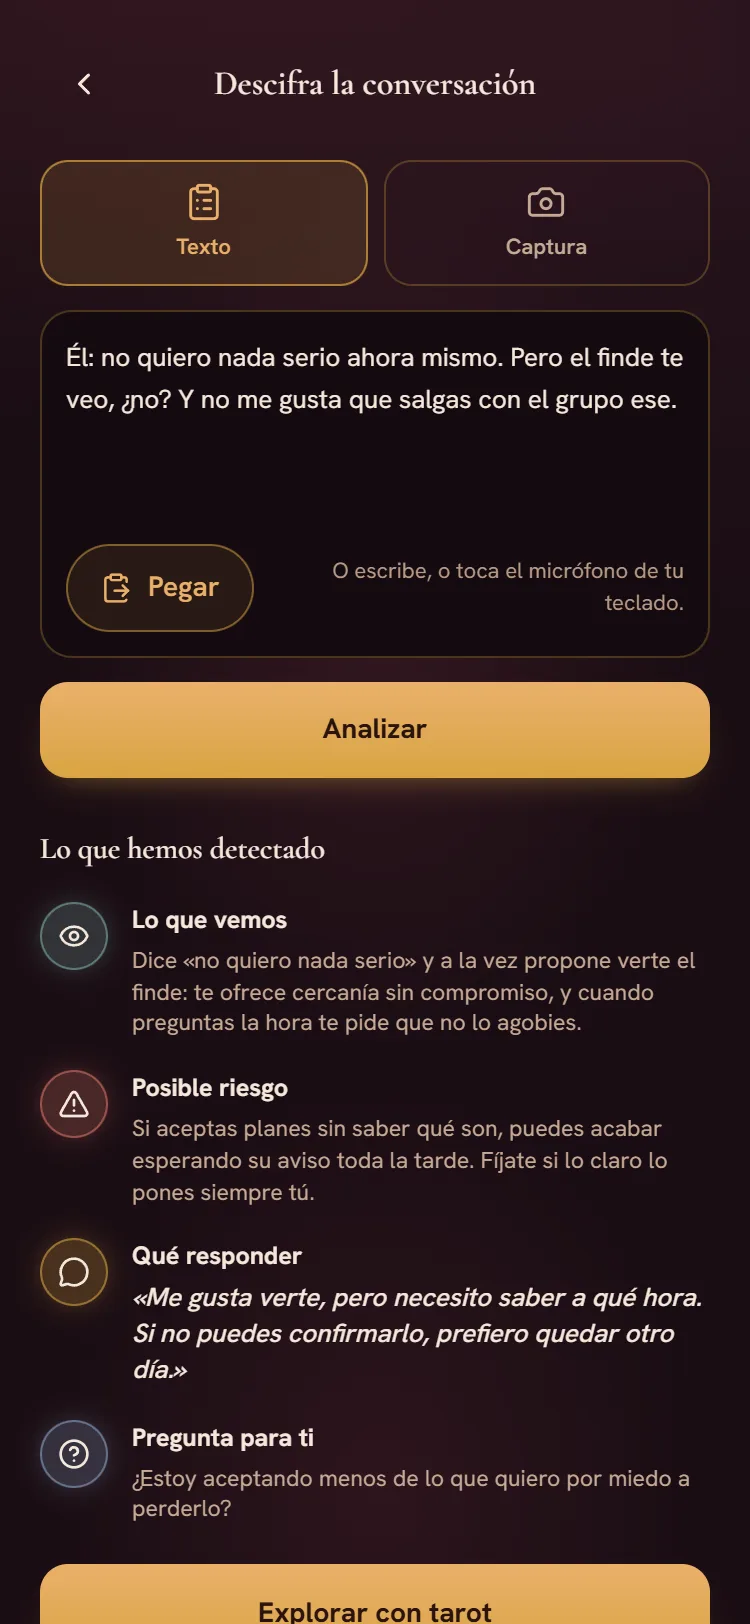
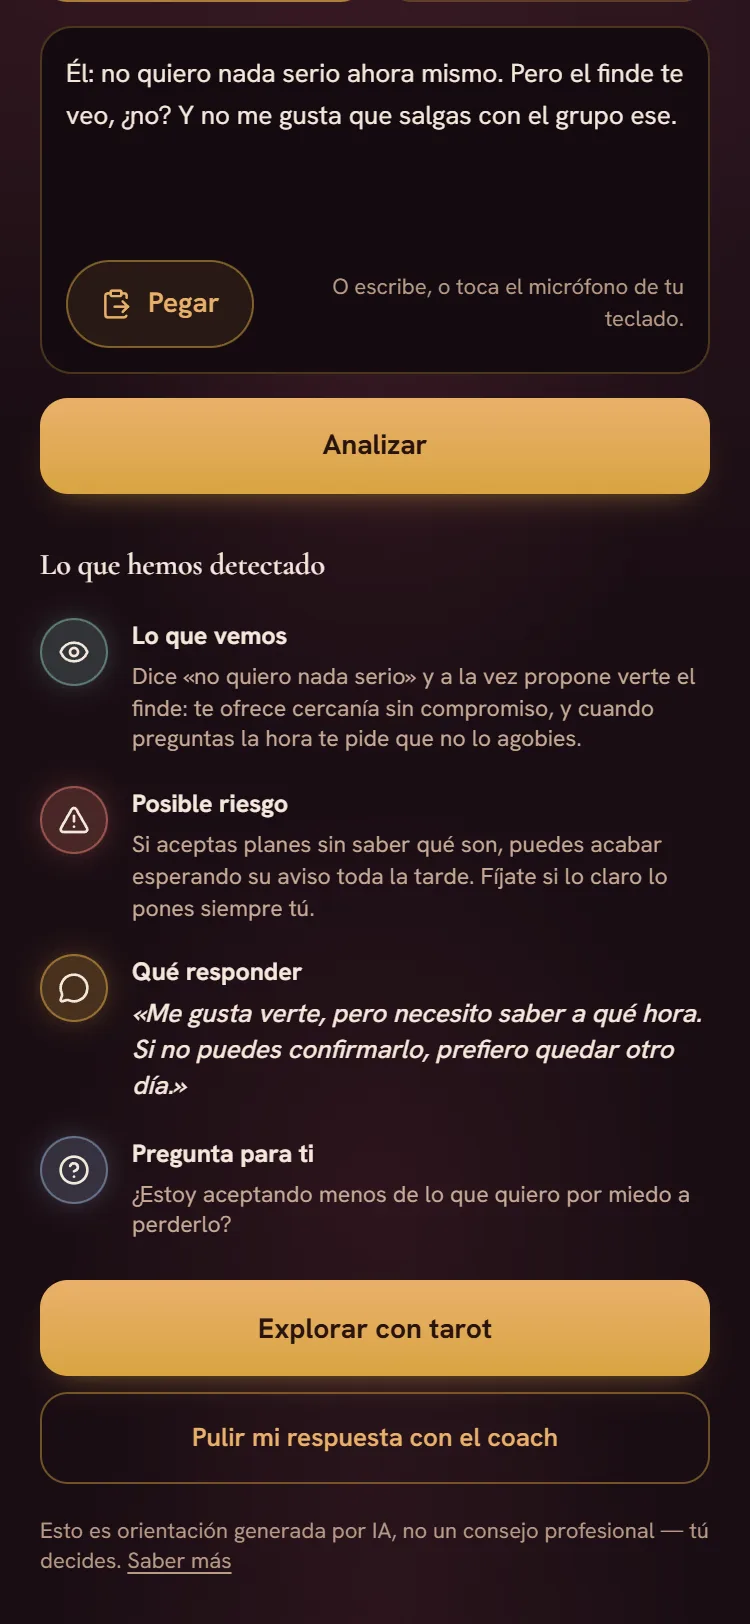
fix(landing): la captura de Descifrar del carrusel ya no corta el botón de abajo

diff --git a/scripts/capturas-carrusel/escenas.js b/scripts/capturas-carrusel/escenas.js
@@ -66,10 +66,13 @@ const ESCENAS = {
     await page.waitForTimeout(500);
     await page.getByRole('button', { name: 'Analizar', exact: true }).click();
     await page.waitForTimeout(1500);
+    // Baja hasta el final del área desplazable para que los dos botones de abajo se vean ENTEROS (nunca cortados).
     await page.evaluate(() => {
       const h = [...document.querySelectorAll('p')].find((x) => /Lo que hemos detectado/.test(x.textContent || ''));
-      if (h) h.scrollIntoView({ block: 'start', behavior: 'instant' });
-      window.scrollBy(0, -170);
+      let el = h;
+      while (el && el !== document.body && !(el.scrollHeight > el.clientHeight + 5 && /(auto|scroll)/.test(getComputedStyle(el).overflowY))) el = el.parentElement;
+      if (el && el !== document.body) el.scrollTop = el.scrollHeight;
+      else window.scrollTo({ top: document.documentElement.scrollHeight, behavior: 'instant' });
     });
     await page.waitForTimeout(500);
   },

diff --git a/app/page.tsx b/app/page.tsx
@@ -154,7 +154,7 @@ export default function LandingLuma() {
             label: 'Tu día, en un vistazo',
           },
           {
-            src: '/carrusel/descifrar.webp?v=3',
+            src: '/carrusel/descifrar.webp?v=4',
             label: 'Hechos, riesgo y qué responder',
           },
           {

diff --git a/ESTADO.md b/ESTADO.md
@@ -1134,3 +1134,4 @@ sabemos / qué observamos / posible riesgo / pregunta para ti / qué podrías re
 - 🔄 2026-10-19 — Carrusel: añadida la pantalla principal de Tarot («Eliges tu tirada») antes de la lectura (ahora 7 pantallas). Pedido de la dueña: el frame de Tarot solo enseñaba la lectura («Amor») y no la pantalla principal. Sin publicar.
 - 🔄 2026-10-19 — COMPATIBILIDAD (sin publicar): (1) BUG REAL: /app/compatibilidad mostraba «Puntos de fricción / Arcano combinado / Consejo» BORROSOS con «Desbloquea el reporte completo → Ver planes» a TODO el mundo, también a quien ya paga. Ahora usa usePruebaDisponible: con plan activo se ve completo; sin plan, % y Química gratis y el resto borroso + «Ver planes» (probado con y sin plan). (2) Carrusel: añadida la pantalla «Tu sinergia con él, en un vistazo» (Leo + Sagitario, texto REAL de la IA en scripts/capturas-carrusel/compat-leo-sagitario.json) tras Tarot → ahora 8 pantallas. Pendiente decisión de la dueña: poner Descifrar como primera pantalla del carrusel.
 - 🔄 2026-10-19 — Carrusel: la pantalla de sinergia ahora es la principal (signos Leo + Sagitario arriba, 94 % asomando) en lugar del informe largo; «la gente no lee tanto» (dueña). ?v=4. Sin publicar.
+- 🔄 2026-10-19 — Carrusel: la captura de Descifrar se veía con el botón «Explorar con tarot» cortado; ahora se baja hasta el final del área desplazable y se ven ENTEROS los dos botones. ?v=4. Sin publicar.
